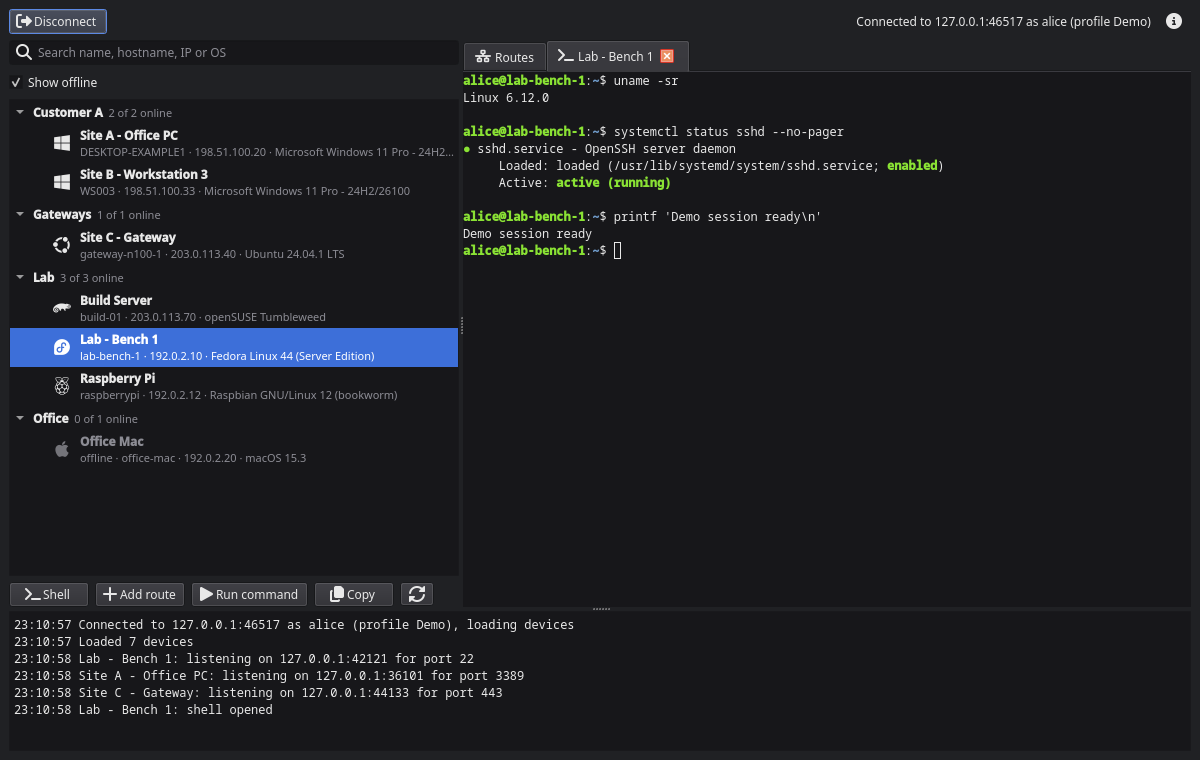
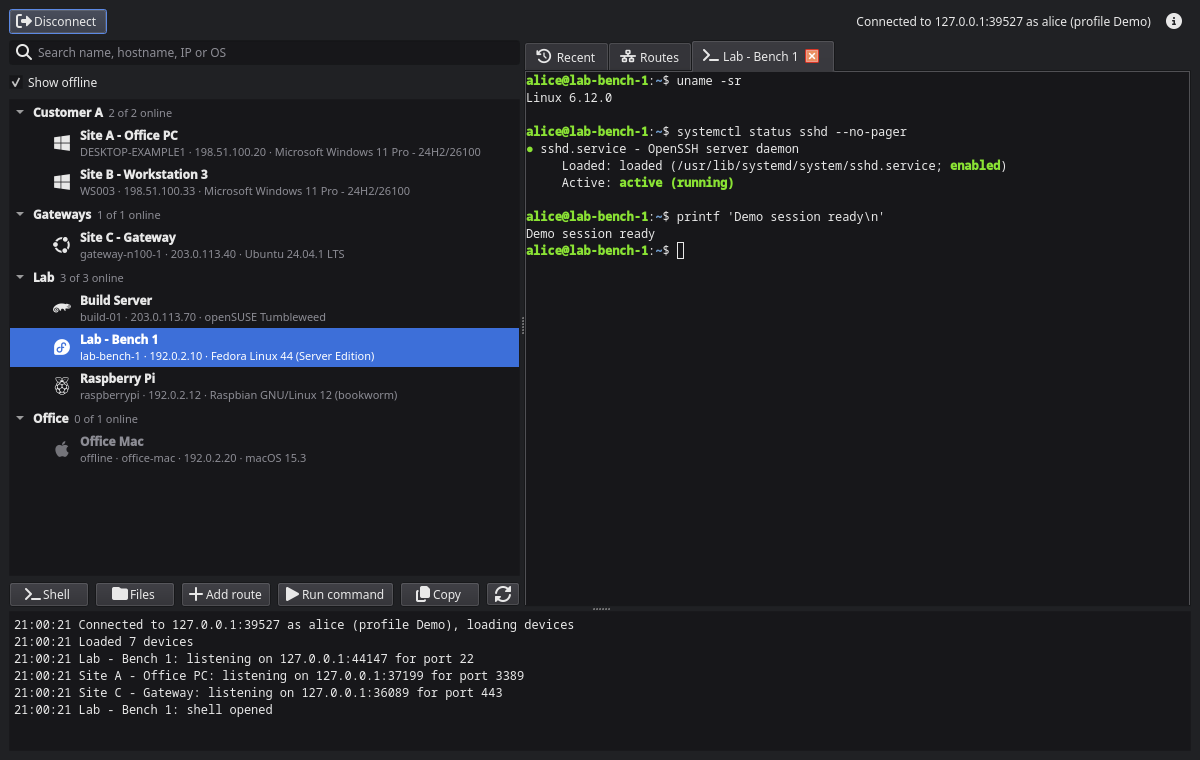
GUI: Regenerated the README screenshots and added the Files tab

diff --git a/mcc-gui/screenshot_test.go b/mcc-gui/screenshot_test.go
@@ -67,6 +67,7 @@ func TestScreenshot(t *testing.T) {
 				t.Error(err)
 			}
 		}
+		tabs.SetCurrentWidget(routesTab) // the routes, Recent comes first
 		settle()
 		save(t, win.QWidget, filepath.Join(dir, variant+".png"))
 

diff --git a/readme.md b/readme.md
@@ -45,13 +45,20 @@ An integrated terminal receiving sample output through the dummy server's shell 
   <img alt="MeshCentral Client terminal showing a sample Linux shell session" src="docs/screenshots/light-shell.png" width="1200">
 </picture>
 
+The Files tab browsing a fictional home folder through the dummy server's files channel:
+
+<picture>
+  <source media="(prefers-color-scheme: dark)" srcset="docs/screenshots/dark-files.png">
+  <img alt="MeshCentral Client Files tab listing folders and files with their sizes and dates" src="docs/screenshots/light-files.png" width="1200">
+</picture>
+
 The GUI uses Qt 6 through miqt and needs cgo and a C++ compiler. For a native build, install the Qt 6 development packages (`qt6-qtbase-devel` on Fedora or `qt6-base-dev` on Debian/Ubuntu):
 
 ```bash
 make gui          # dist/mcc-gui, linked against the system Qt
 make gui-test     # GUI tests using Qt's offscreen platform
 make gui-shots    # Start a dummy server and capture both themes in dist/shots
-make gui-readme-shots # Regenerate the four README images in docs/screenshots
+make gui-readme-shots # Regenerate the README images in docs/screenshots
 ```
 
 Screenshot generation runs offscreen on Linux using the GUI test binary and `tools/guibench`'s local dummy server. It uses temporary preferences and a mock keyring, exercises login, device queries, a shell relay and a files channel, and waits for the device list, terminal output and file listing before saving PNGs. No real MeshCentral account, credentials, or desktop session is needed. The images show fictional devices and documentation IP addresses; local server and route ports are assigned automatically.
